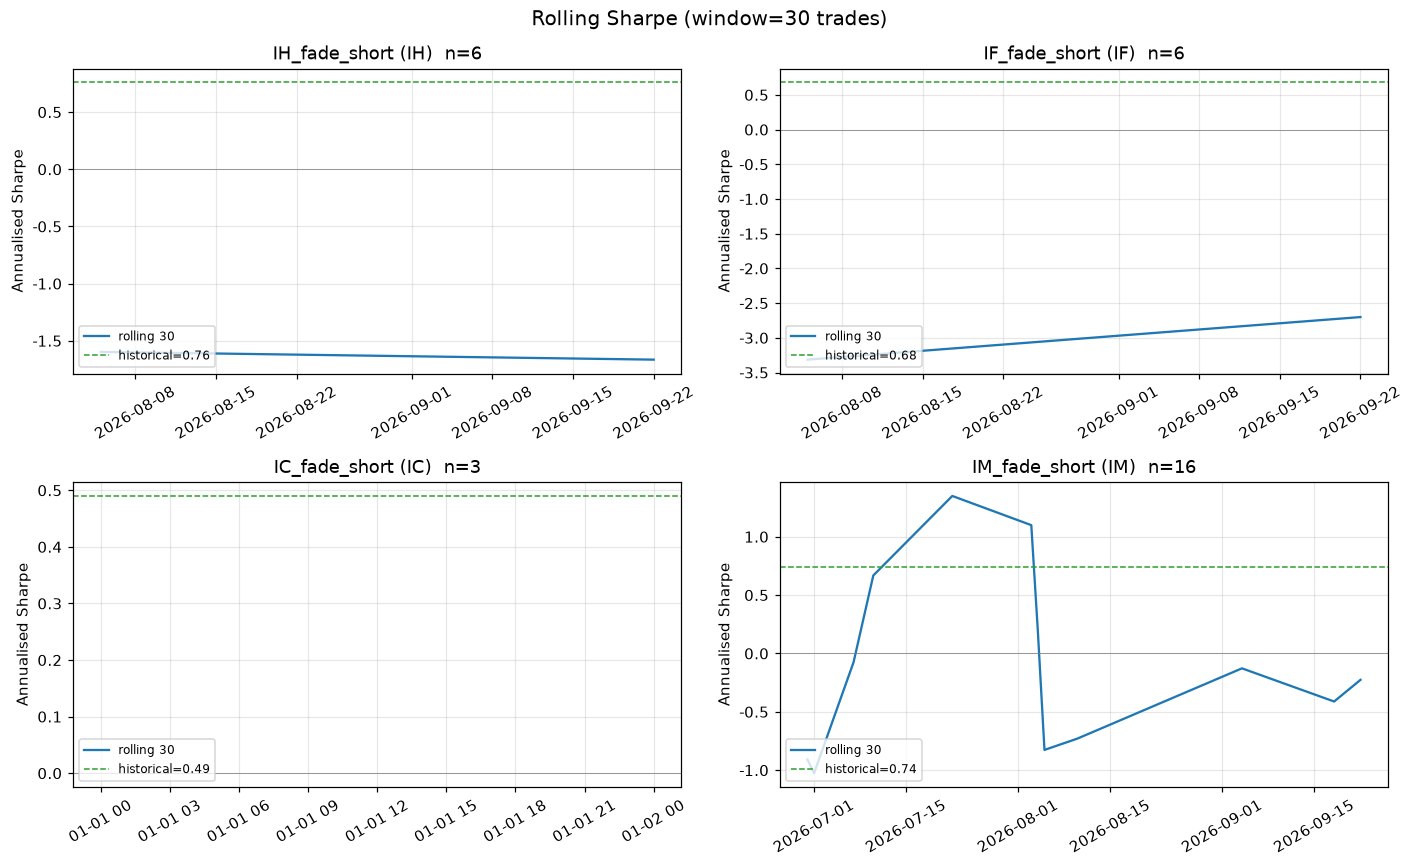
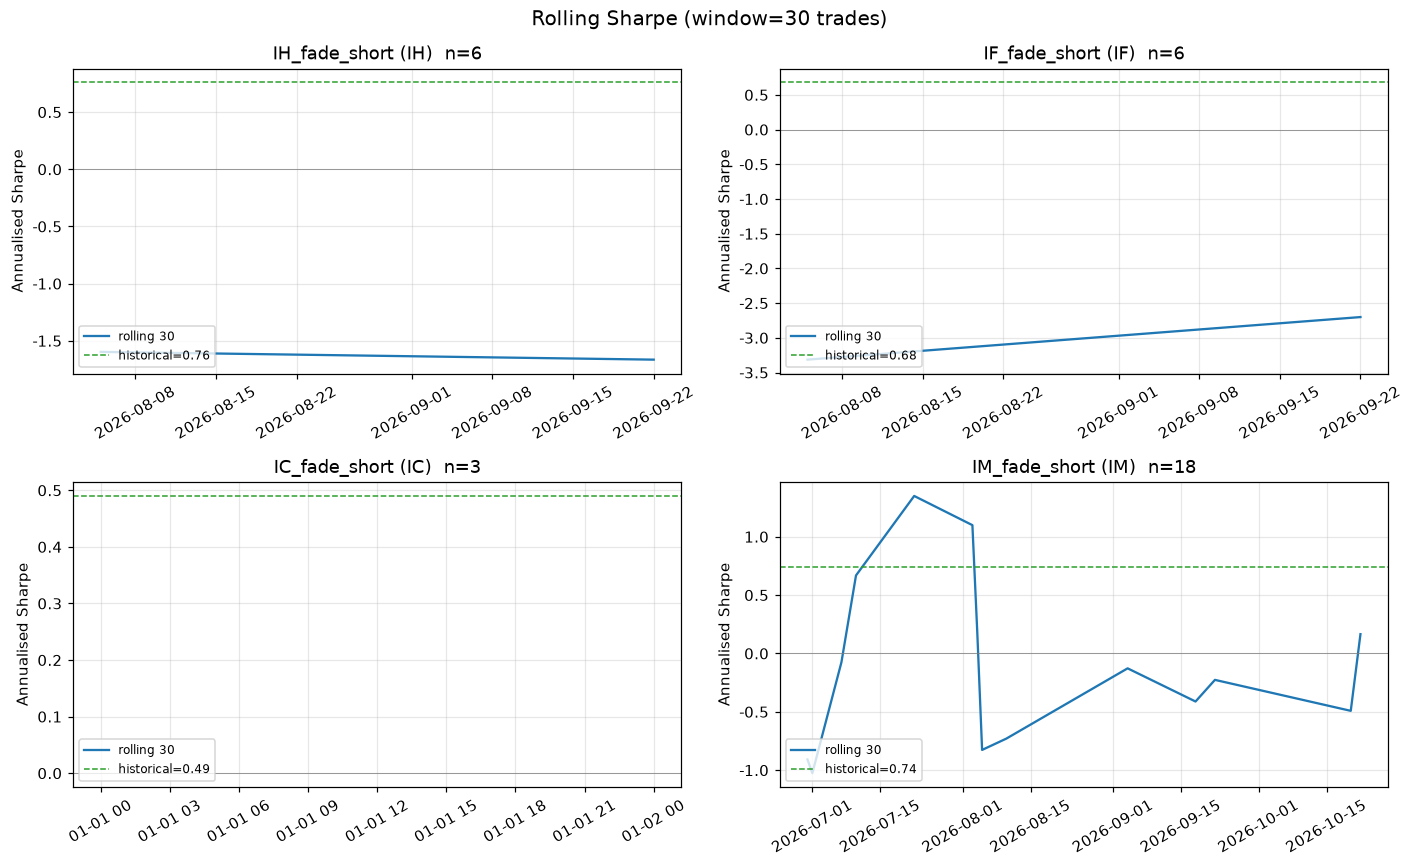
Weekly review 2026-10-23 (alerts=1)

diff --git a/weekly_review.md b/weekly_review.md
@@ -1,8 +1,9 @@
-## Weekly Review — 2026-10-16
+## Weekly Review — 2026-10-23
 
 _Window: rolling Sharpe over last 30 trades; loss-streak window 10 trades; decay alert if realised < 50% of historical_
 
-### ✅ No alerts
+### 🚨 Alerts
+- **IM_fade_short**: RECENT_LOSS_STREAK
 
 ### Performance summary
 | Strategy | Trades | Hit % | Mean bps | Realised Sharpe | Rolling Sharpe | Historical | Cum PnL | Last10 PnL | Alerts |
@@ -10,6 +11,6 @@ _Window: rolling Sharpe over last 30 trades; loss-streak window 10 trades; decay
 | IH_fade_short | 6 | 33.3% | -46.7 | -1.665 | -1.665 | 0.76 | -47,968 | -47,968 | — |
 | IF_fade_short | 6 | 33.3% | -70.6 | -2.701 | -2.701 | 0.68 | -58,637 | -58,637 | — |
 | IC_fade_short | 3 | 33.3% | -133.8 | -2.994 | — | 0.49 | -61,461 | -61,461 | — |
-| IM_fade_short | 16 | 56.2% | -5.8 | -0.226 | -0.226 | 0.74 | -7,388 | +16,585 | — |
+| IM_fade_short | 18 | 55.6% | +4.5 | 0.165 | 0.165 | 0.74 | +15,941 | -6,240 | RECENT_LOSS_STREAK |
 
 _Charts: rolling_sharpe.png + cumulative_pnl.png in repo_
